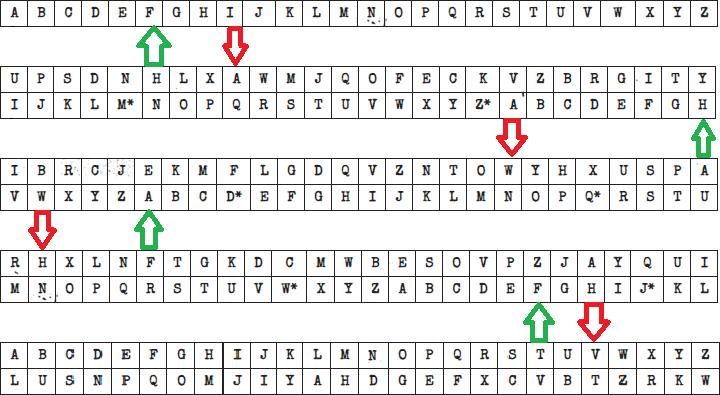
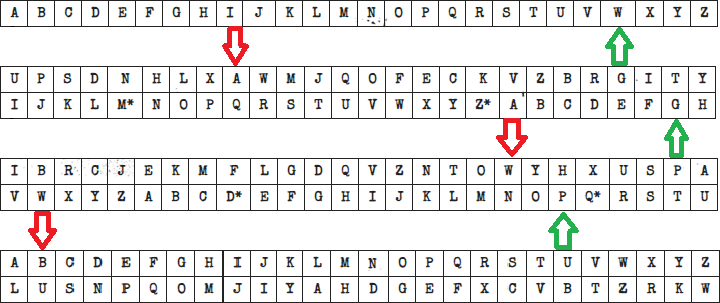
Update Forget Enigma's manuals

Changed region(s): [[0.0, 0.0, 1.0, 1.0]]

diff --git a/HTML/Forget Enigma interactive (samfun123).html b/HTML/Forget Enigma interactive (samfun123).html
@@ -66,7 +66,7 @@
                 <p>To disarm this module, you have to decrypt the letter using the mechanics down below.</p>
                 <h3>Step 1: Configuration of the Rotors/Reflector</h3>
                 <p>The screen at top shows what type of rotors are used, the order they are in, and which reflector is used. Use the correct rotor charts and correct reflector chart to use to create an Enigma Decryptor.</p>
-                <p>They are read in this order: Reflector-Bottom Rotor-Middle Rotor-Top Rotor. Above the top rotor, you will type A-Z to use as the keyboard.</p>
+                <p>They are read in this order: Reflector-Bottom Rotor-Top Rotor. Above the top rotor, you will type A-Z to use as the keyboard.</p>
                 <p>Use the schematic at the bottom to help you create the Enigma Decryptor.</p>
                 <p>The rotors below the screen shows what letter each one is at. Shift the letters until the bottom left letter is equal to the letter on the rotor.</p>
                 
@@ -90,20 +90,16 @@
                     <li>1: Take the lit letter and find it on the keyboard row of the decryptor.</li>
                     <li>2: Go straight down to the top row of the top rotor to receive a new letter.</li>
                     <li>3: Find the new letter in the bottom row of the top rotor.</li>
-                    <li>4: Go straight down to the top row of the middle rotor to receive a new letter.</li>
-                    <li>5: Find the new letter in the bottom row of the middle rotor.</li>
-                    <li>6: Go straight down to the top row of the bottom rotor to receive a new letter.</li>
-                    <li>7: Find the new letter in the bottom row of the bottom rotor.</li>
-                    <li>8: Go straight down to the top row of the reflector to receive a new letter.</li>
-                    <li>9: Find the new letter in the bottom row of the reflector.</li>
-                    <li>10: Go straight up to the bottom row of the bottom rotor to receive a new letter.</li>
-                    <li>11: Find the new letter in the top row of the bottom rotor.</li>
-                    <li>12: Go straight up to the bottom row of the middle rotor to receive a new letter.</li>
-                    <li>13: Find the new letter in the top row of the middle rotor.</li>
-                    <li>14: Go straight up to the bottom row of the top rotor to receive a new letter.</li>
-                    <li>15: Find the new letter in the top row of the top rotor.</li>
-                    <li>16: Go straight up to the keyboard row to receive your decrypted letter.</li>
-                    <li>The example below uses I as the lit letter which will decrypt it to F.</li>
+                    <li>4: Go straight down to the top row of the bottom rotor to receive a new letter.</li>
+                    <li>5: Find the new letter in the bottom row of the bottom rotor.</li>
+                    <li>6: Go straight down to the top row of the reflector to receive a new letter.</li>
+                    <li>7: Find the new letter in the bottom row of the reflector.</li>
+                    <li>8: Go straight up to the bottom row of the bottom rotor to receive a new letter.</li>
+                    <li>9: Find the new letter in the top row of the bottom rotor.</li>
+                    <li>10: Go straight up to the bottom row of the top rotor to receive a new letter.</li>
+                    <li>11: Find the new letter in the top row of the top rotor.</li>
+                    <li>12: Go straight up to the keyboard row to receive your decrypted letter.</li>
+                    <li>The example below uses I as the lit letter which will decrypt it to W.</li>
                 </ul>
             </div>
             <div class="page-footer relative-footer">Page 2 of 3</div>
@@ -125,11 +121,10 @@
                 <br>
                 <h3>Step 3: Rotor Turning Mechanics</h3>
                 <p>On each solve, the rotors will turn but not randomly. This next section talks bout how rotor turning mechanics work.</p>
-                <p>You will notice a couple letters on the bottom row of the rotors have * next to them. Depending on which rotor it's on will have different effects:</p>
+                <p>You will notice a couple letters on the bottom row of the rotors have * next to them. This will affect the turning of the rotors:</p>
                 <ul>
-                    <li>If the letter is at the leftmost edge of the right/top rotor. On the next solve, both the right/top and middle rotor will turn.</li>
-                    <li>However, if the letter is at the left most edge of the middle rotor, on the next solve, all 3 rotors will turn.</li>
-                    <li>If none of those apply, then on the next solve only the right/top rotor will turn</li>
+                    <li>If the asterisk is at the leftmost edge of the right/top rotor, on the next solve, both the right/top and bottom/left rotor will turn.</li>
+                    <li>Otherwise, on the next solve, only the right/top rotor will turn</li>
                     <li>Each turn only goes up 1 step on the rotor (Ex: A -> B, G -> H, Z -> A, etc.)</li>
                 </ul>
             </div>
@@ -255,7 +250,7 @@
 
         // Make the rotors
         const rotorNames = Object.keys(cyclers).filter(name => name.includes("Rotor"));
-        for (let i = 0; i < 3; i++) {
+        for (let i = 0; i < 2; i++) {
             makeCycler(rotorNames);
         }
 

diff --git a/HTML/Forget Enigma.html b/HTML/Forget Enigma.html
@@ -45,7 +45,7 @@
                 <p>To disarm this module, you have to decrypt the letter using the mechanics down below.</p>
                 <h3>Step 1: Configuration of the Rotors/Reflector</h3>
                 <p>The screen at top shows what type of rotors are used, the order they are in, and which reflector is used. Use the correct rotor charts and correct reflector chart to use to create an Enigma Decryptor.</p>
-                <p>They are read in this order: Reflector-Bottom Rotor-Middle Rotor-Top Rotor. Above the top rotor, you will type A-Z to use as the keyboard.</p>
+                <p>They are read in this order: Reflector-Bottom Rotor-Top Rotor. Above the top rotor, you will type A-Z to use as the keyboard.</p>
                 <p>Use the schematic at the bottom to help you create the Enigma Decryptor.</p>
                 <p>The rotors below the screen shows what letter each one is at. Shift the letters until the bottom left letter is equal to the letter on the rotor.</p>
                 <h4>Rotor I</h4>
@@ -753,20 +753,16 @@
                     <li>1: Take the lit letter and find it on the keyboard row of the decryptor.</li>
                     <li>2: Go straight down to the top row of the top rotor to receive a new letter.</li>
                     <li>3: Find the new letter in the bottom row of the top rotor.</li>
-                    <li>4: Go straight down to the top row of the middle rotor to receive a new letter.</li>
-                    <li>5: Find the new letter in the bottom row of the middle rotor.</li>
-                    <li>6: Go straight down to the top row of the bottom rotor to receive a new letter.</li>
-                    <li>7: Find the new letter in the bottom row of the bottom rotor.</li>
-                    <li>8: Go straight down to the top row of the reflector to receive a new letter.</li>
-                    <li>9: Find the new letter in the bottom row of the reflector.</li>
-                    <li>10: Go straight up to the bottom row of the bottom rotor to receive a new letter.</li>
-                    <li>11: Find the new letter in the top row of the bottom rotor.</li>
-                    <li>12: Go straight up to the bottom row of the middle rotor to receive a new letter.</li>
-                    <li>13: Find the new letter in the top row of the middle rotor.</li>
-                    <li>14: Go straight up to the bottom row of the top rotor to receive a new letter.</li>
-                    <li>15: Find the new letter in the top row of the top rotor.</li>
-                    <li>16: Go straight up to the keyboard row to receive your decrypted letter.</li>
-                    <li>The example below uses I as the lit letter which will decrypt it to F.</li>
+                    <li>4: Go straight down to the top row of the bottom rotor to receive a new letter.</li>
+                    <li>5: Find the new letter in the bottom row of the bottom rotor.</li>
+                    <li>6: Go straight down to the top row of the reflector to receive a new letter.</li>
+                    <li>7: Find the new letter in the bottom row of the reflector.</li>
+                    <li>8: Go straight up to the bottom row of the bottom rotor to receive a new letter.</li>
+                    <li>9: Find the new letter in the top row of the bottom rotor.</li>
+                    <li>10: Go straight up to the bottom row of the top rotor to receive a new letter.</li>
+                    <li>11: Find the new letter in the top row of the top rotor.</li>
+                    <li>12: Go straight up to the keyboard row to receive your decrypted letter.</li>
+                    <li>The example below uses I as the lit letter which will decrypt it to W.</li>
                 </ul>
             </div>
             <div class="page-footer relative-footer">Page 3 of 4</div>
@@ -788,11 +784,10 @@
                 <br>
                 <h3>Step 3: Rotor Turning Mechanics</h3>
                 <p>On each solve, the rotors will turn but not randomly. This next section talks bout how rotor turning mechanics work.</p>
-                <p>You will notice a couple letters on the bottom row of the rotors have * next to them. Depending on which rotor it's on will have different effects:</p>
+                <p>You will notice a couple letters on the bottom row of the rotors have * next to them. This will affect the turning of the rotors:</p>
                 <ul>
-                    <li>If the letter is at the leftmost edge of the right/top rotor. On the next solve, both the right/top and middle rotor will turn.</li>
-                    <li>However, if the letter is at the left most edge of the middle rotor, on the next solve, all 3 rotors will turn.</li>
-                    <li>If none of those apply, then on the next solve only the right/top rotor will turn</li>
+                    <li>If the asterisk is at the leftmost edge of the right/top rotor, on the next solve, both the right/top and bottom/left rotor will turn.</li>
+                    <li>Otherwise, on the next solve, only the right/top rotor will turn</li>
                     <li>Each turn only goes up 1 step on the rotor (Ex: A -> B, G -> H, Z -> A, etc.)</li>
                 </ul>
             </div>
